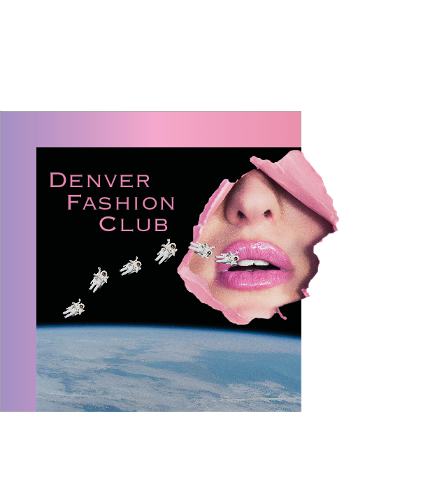
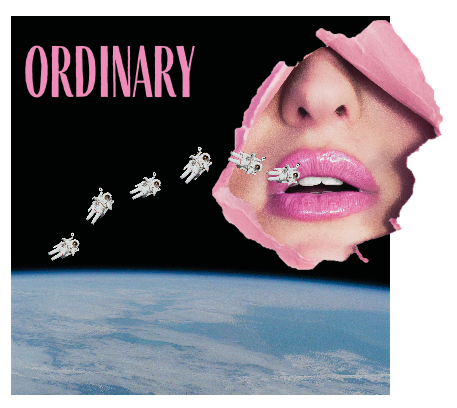
updated

diff --git a/src/App.js b/src/App.js
@@ -5,6 +5,9 @@ import astro_image from './images/astro.png';
 import foa_image from './images/foa.png';
 import hearts_image from './images/hearts.png';
 import ordlips_image from './images/ordlips.jpg';
+import mona_image from './images/mona.png';
+import ordinary_image from './images/ordinary.png';
+import secret_image from './images/secret.png';
 import fish_gif from './images/fishies.gif';
 import './App.css';
 
@@ -19,14 +22,14 @@ function App() {
                 <text className="willieText">willie</text>
                 <img src={gallery_image} className="gallery-image"/>
                 <img src={fish_gif} className='fish'/>
-                <text className="infoText">all sketches come in hoodies. for an order text 720.251.6343</text>
+                <text className="infoText">all sketches come in hoodies for an order text 720.251.6343</text>
               </Box>
             </Box>
             <Box display="flex"justifyContent="center">
-              <Box width={3/4} mt={5}>
+              <Box p={1} width={3/4} mt={5}>
                 <Box display="flex" justifyContent="center" m={1} p={1}>
                   <Box p={1}>
-                    <img src={foa_image}/>
+                    <img src={foa_image} className="design-image-large"/>
                   </Box>
                 </Box>
                 <Box display="flex" justifyContent="center" m={1} p={1}>
@@ -36,12 +39,27 @@ function App() {
                 </Box>
                 <Box display="flex" justifyContent="center" m={1} p={1} >
                   <Box p={1}>
-                    <img src={ordlips_image}/>
+                    <img src={ordlips_image} className="design-image"/>
                   </Box>
                 </Box>
                 <Box display="flex" justifyContent="center" m={1} p={1}>
                   <Box p={1}>
-                    <img src={astro_image}/>
+                    <img src={astro_image} className="design-image-large"/>
+                  </Box>
+                </Box>
+                <Box display="flex" justifyContent="center" m={1} p={1}>
+                  <Box p={1}>
+                    <img src={secret_image} className="design-image-large"/>
+                  </Box>
+                </Box>
+                <Box display="flex" justifyContent="center" m={1} p={1}>
+                  <Box p={1}>
+                    <img src={mona_image} className="design-image"/>
+                  </Box>
+                </Box>
+                <Box display="flex" justifyContent="center" m={1} p={1}>
+                  <Box p={1}>
+                    <img src={ordinary_image} className="design-image"/>
                   </Box>
                 </Box>
               </Box>

diff --git a/src/App.css b/src/App.css
@@ -45,6 +45,16 @@
   height: auto;
 }
 
+.design-image{
+  max-width: 80%;
+  height: auto;
+}
+
+.design-image-large{
+  max-width: 87%;
+  height: auto;
+}
+
 .fish{
   position: absolute;
   top: 30px;
